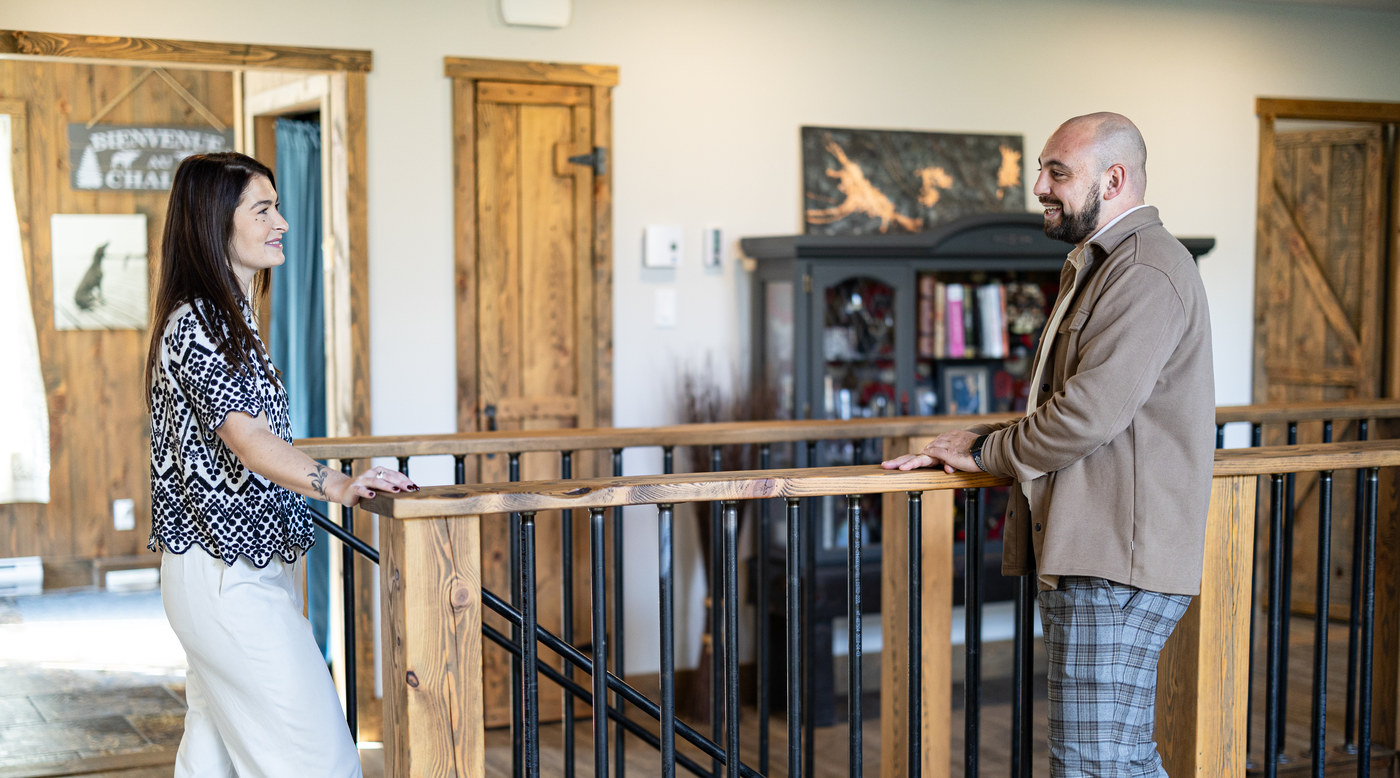
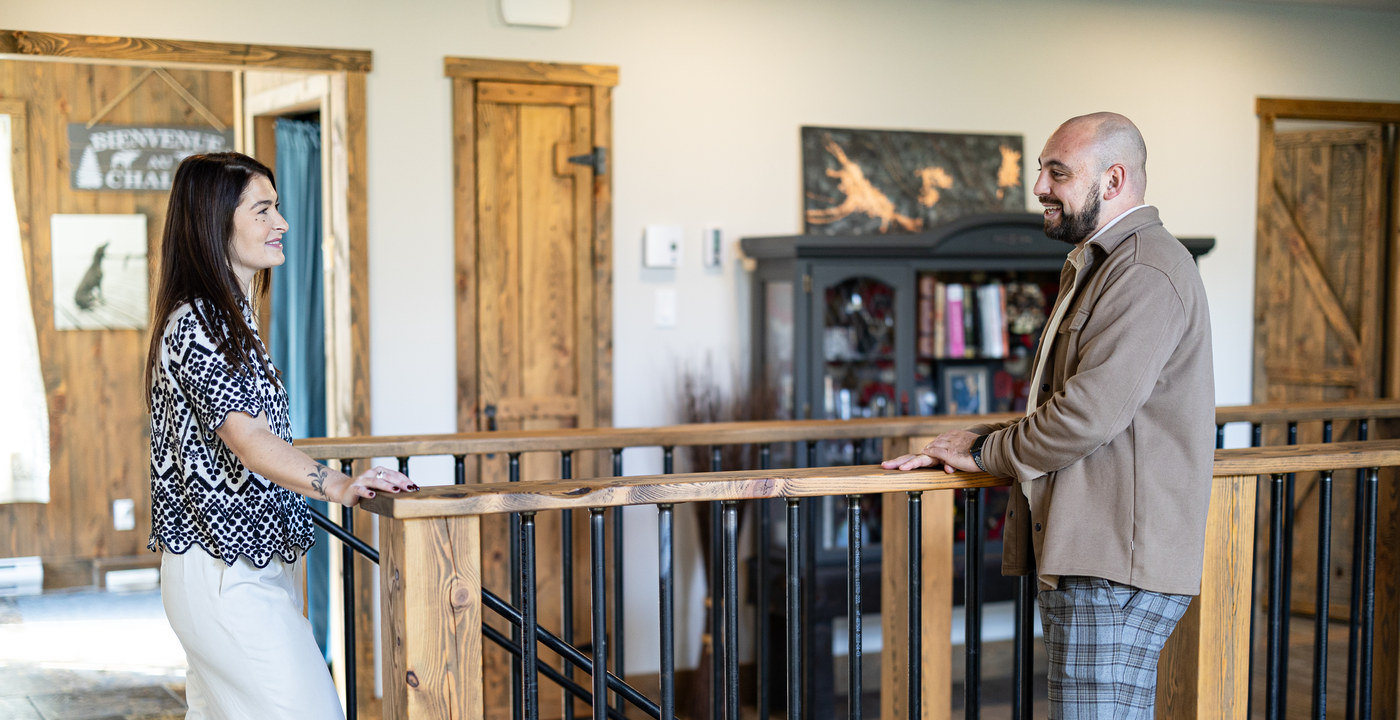
Bannières de page : les têtes ne se font plus couper
La bannière coupe deux fois et on ne comptait qu'une seule. object-fit: cover
retire déjà du haut et du bas, puis la parallaxe déplace le surplus : sur une
fenêtre de 1689 px, entre les deux, il ne restait que 49 % de la hauteur de la
photo à l'écran en tout temps. Les têtes tombaient dans la part perdue.

Deux réglages du composant. Le cadre plafonnait à 440 px, ce qui donnait une
bande de 3,04:1 sur 1336 px de large : il monte à 560 px, soit 2,39:1. Et le
débordement de la photo passe de 118 % à 108 %, avec la course de parallaxe
ajustée à l'avenant (yPercent -7,4 au lieu de -15). La bande toujours visible
passe de 49 % à 75 % de la photo.

Les quatre photos d'équipe sont recadrées par le bas pour que les têtes
remontent au-dessus de la ligne des 12 %. Aucune retouche de couleur.

diff --git a/site/assets/site.css b/site/assets/site.css
@@ -2031,12 +2031,12 @@ body.header-overlay .site-footer{ margin-block-start: 0; border-block-start: 1px
 .blue-block .eye{ font:500 11px 'Montserrat', system-ui, sans-serif; text-transform:uppercase; letter-spacing:0.18em; }
 /* Bannière image (pages de contenu) */
 /* Bannière de page — la photo déborde légèrement pour permettre la parallaxe */
-.content-hero{ margin:0 0 clamp(1.5rem,3vw,2.5rem); border-radius:var(--radius-lg); overflow:hidden; position:relative; box-shadow:var(--shadow-card); block-size:clamp(220px,32vw,440px); }
+.content-hero{ margin:0 0 clamp(1.5rem,3vw,2.5rem); border-radius:var(--radius-lg); overflow:hidden; position:relative; box-shadow:var(--shadow-card); block-size:clamp(220px,34vw,560px); }
 .content-hero::after{
   content:""; position:absolute; inset:0; pointer-events:none;
   background:linear-gradient(to top, oklch(22% 0.04 240 / 0.55) 0%, oklch(37.3% 0.06 258 / 0.18) 45%, transparent 75%);
 }
-.content-hero img{ display:block; inline-size:100%; block-size:118%; object-fit:cover; will-change:transform; }
+.content-hero img{ display:block; inline-size:100%; block-size:108%; object-fit:cover; will-change:transform; }
 @media (prefers-reduced-motion: reduce){ .content-hero img{ block-size:100%; } }
 /* Pages de ville — titre plus mesuré + bande de stats éditoriale */
 .page-head--city h1{ font-size:clamp(1.9rem,4.2vw,3.1rem); letter-spacing:-0.02em; max-inline-size:16ch; }

diff --git a/site/assets/site.js b/site/assets/site.js
@@ -372,13 +372,17 @@
     }
 
     // Bannières de page — la photo glisse un peu plus lentement que la page.
-    // La photo mesure 118 % de la hauteur du cadre : on ne fait que déplacer
-    // le surplus, il n'y a jamais de bande vide.
+    // La photo mesure 108 % de la hauteur du cadre : on ne fait que déplacer
+    // le surplus, il n'y a jamais de bande vide. Le débordement était de 18 %
+    // et le cadre plafonnait à 440 px : sur un grand écran, entre le recadrage
+    // de object-fit et la course de la parallaxe, la moitié de la photo pouvait
+    // sortir du champ et les têtes se faisaient couper. Garder yPercent égal au
+    // débordement, soit (108 - 100) / 108.
     if (hasGSAP && hasST && !reduceMotion) {
       document.querySelectorAll('[data-parallax] img').forEach((img) => {
         try {
           window.gsap.fromTo(img,
-            { yPercent: -15 },
+            { yPercent: -7.4 },
             { yPercent: 0, ease: 'none', immediateRender: false,
               scrollTrigger: { trigger: img.parentElement, start: 'top bottom', end: 'bottom top', scrub: true } }
           );

diff --git a/NOTES.md b/NOTES.md
@@ -56,6 +56,7 @@
 - Les bios de `/a-propos/` restent au « je » : c'est la personne qui parle. Tout le reste du site est au « nous » ou au « on ». (2026-08-07)
 - Images libres de droits dans `photos/stock/` (Unsplash). `copyDir` est maintenant récursif — avant, les sous-dossiers de `photos/` étaient silencieusement ignorés au build. (2026-08-07)
 - **Les bannières des guides sont les vraies photos de l'équipe.** Les fichiers `xnom.jpg` déposés dans `site/photos/` sont des originaux : le `x` est la nomenclature de Vincent, le reste du nom dit la page de destination. On les recadre (jamais de retouche de couleur : les blancs délavés de la série précédente sont dans `photos/_originaux-delaves/`), on les renomme `guide-*.jpg` dans `photos/` et on efface les originaux de `site/photos/`, que le build purge de toute façon. Format retenu : 1400 px de large, rapport 1,8, sujet au centre vertical parce que la bannière recadre à 2,3:1 sur grand écran et à 1,4:1 sur téléphone. (2026-08-24)
+- **La bannière de page coupe deux fois, il faut compter les deux.** `.content-hero` recadre avec `object-fit: cover`, puis la parallaxe déplace le surplus : la bande réellement toujours visible est bien plus étroite que la photo. Avec l'ancien réglage (cadre plafonné à 440 px, photo à 118 %), sur une fenêtre de 1689 px il ne restait que **49 %** de la hauteur de la photo, et les têtes se faisaient couper. Le cadre monte à 560 px et le débordement descend à 108 % : on est à **75 %**. Règle pour cadrer une photo de bannière : la tête doit se trouver **sous la ligne des 12 %** de la hauteur du fichier livré, et le bas utile au-dessus des 88 %. (2026-08-24)
 - **La photo aérienne de Saint-Eustache est sous CC BY-SA 4.0** (Gacard, Wikimedia Commons), pas sous licence Unsplash. Le crédit est obligatoire : il est en note au bas de `/blog/premier-acheteur-saint-eustache-revenu/`. Si la photo change de page, le crédit suit. (2026-08-24)
 
 ## ✓ Fait
